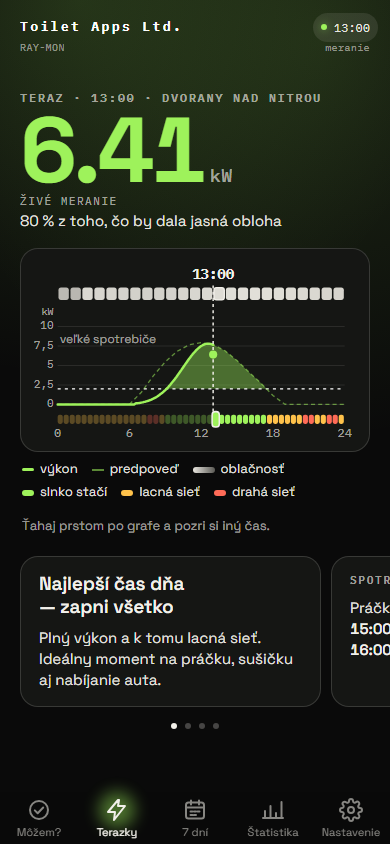
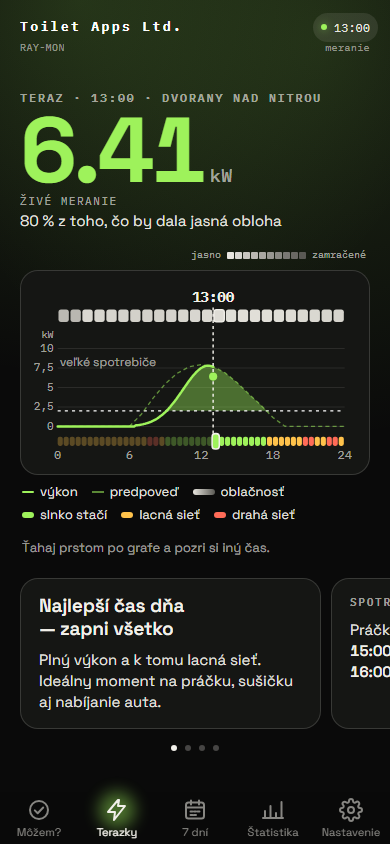
feat: stupnica oblačnosti „jasno … zamračené“ nad grafom dňa v oboch appkách
- karta Terazky / Teraz v oboch appkách: vpravo nad grafom
- detail dňa na karte 7 dní: v súčasnej appke v riadku „Priebeh výroby“
  (kde bola stupnica výroby), v Oblohe vpravo nad grafom
- jedna funkcia cloudScaleHtml vo web/day-chart.js, texty v DAY_CHART_KEYS
- farby oblačnosti ako --cloud-clear / --cloud-dark v :root, bunky, legenda
  aj stupnica ich berú odtiaľ
- preč osamotený komentár k odstráneným farbám časovej osi

diff --git a/test/e2e/obloha.spec.js b/test/e2e/obloha.spec.js
@@ -22,7 +22,7 @@ import { mozemSkyModel } from '../../shared/mozem-sky.js';
 import { cellAt, chartX, DAY_CHART, planCells } from '../../shared/day-chart.js';
 import { dayPlan } from '../../shared/day-plan.js';
 import { heroModel, stavMerania } from '../../shared/hero-model.js';
-import { stavMeraniaText } from '../../shared/messages-core.js';
+import { DAY_CHART_KEYS, stavMeraniaText } from '../../shared/messages-core.js';
 import { terazModel } from '../../shared/teraz.js';
 import { sedemDayModel, sedemModel, sedemWeekModel } from '../../shared/sedem-dni.js';
 import { lookToStored, toUser, typicalSettings } from '../../shared/settings.js';
@@ -1031,6 +1031,9 @@ test.describe('karta Teraz', () => {
     test('nameraná krivka dneška je plná čiara cez predpoveď, hranica veľkých spotrebičov s popiskom a oblačnosť', async ({ page }) => {
         const errors = await openTeraz(page, { time: at('13:00') });
         await expect(page.locator('#tz-chart .dc-cloud')).toHaveCount(24);
+        // Stupnica oblačnosti nad grafom: jasno … zamračené, desať štvorčekov.
+        await expect(page.locator('#tz-cloud-scale span:not(.cs-sw)')).toHaveText([DAY_CHART_KEYS.clear, DAY_CHART_KEYS.cloudy]);
+        await expect(page.locator('#tz-cloud-scale .cs-sw i')).toHaveCount(10);
         await expect(page.locator('#tz-chart .dc-fc')).toHaveCount(1);
         await expect(page.locator('#tz-chart .dc-real')).toHaveCount(1);
         await expect(page.locator('#tz-chart .dc-over')).toHaveCount(1);
@@ -1530,6 +1533,9 @@ test.describe('karta 7 dní', () => {
         await page.locator('#sd-days [data-day="4"]').click();
         await expect.poll(() => denVStranke(page)).toEqual(denZModelu(sedemDayModel(vstupSedem(), 4)));
         await expect(page.locator('#sd-day-chart .dc-now-dot')).toHaveCount(0);
+        // Stupnica oblačnosti nad grafom: jasno … zamračené, desať štvorčekov.
+        await expect(page.locator('#sd-day-cloud-scale span:not(.cs-sw)')).toHaveText([DAY_CHART_KEYS.clear, DAY_CHART_KEYS.cloudy]);
+        await expect(page.locator('#sd-day-cloud-scale .cs-sw i')).toHaveCount(10);
         await expect(page.locator('#sd-day-chart .dc-prev')).toHaveCount(0);
         await expect(page.locator('#sd-day-chart .dc-past')).toHaveCount(0);
         await expect(page.locator('#sd-day-done')).toBeHidden();

diff --git a/style.css b/style.css
@@ -147,9 +147,9 @@
     --amber-rgb: 255, 194, 75;
     --red-rgb: 255, 107, 87;
     --grey-rgb: 185, 182, 172;
-    /* Časová os detailu dňa. Pás spotrebičov je jeden odtieň zelenej v troch stupňoch jasu.
-       Rad prešiel kontrolou farbosleposti a kontrastu voči --card-bg (lightness monotónna,
-       krok >= 0,06, svetlý koniec >= 2:1) - pri zmene ho treba overiť znova. */
+    /* Oblačnosť v grafe dňa: jasno svetlé, zamračené tmavosivé - bunky, legenda aj stupnica. */
+    --cloud-clear: #e8e6df;
+    --cloud-dark: #5a5954;
     /* Tmavé písmo a čiary na plnej farbe (karta Môžem?, plagát súhrnu). Číta ho aj obrázok
        pre story (web/share-image.js), rovnako ako farby vyššie. */
     --ink-on-color: #0b0b0b;
@@ -866,7 +866,7 @@ b {
 /* Oblačnosť po hodinách nad krivkou: jasno svetlé, zamračené tmavosivé (`--c` je oblačnosť v %,
    web/day-chart.js), bunka pod čiarou náhľadu má okraj. */
 .dc-cloud {
-    fill: color-mix(in srgb, #5a5954 var(--c), #e8e6df);
+    fill: color-mix(in srgb, var(--cloud-dark) var(--c), var(--cloud-clear));
 }
 .dc-cloud-on {
     stroke: var(--ink);
@@ -1027,7 +1027,36 @@ b {
 }
 .tz-legend [data-tone='cloud']::before {
     width: 22px;
-    background: linear-gradient(90deg, #e8e6df, #5a5954);
+    background: linear-gradient(90deg, var(--cloud-clear), var(--cloud-dark));
+}
+/* Stupnica oblačnosti nad grafom dňa (cloudScaleHtml vo web/day-chart.js) - na karte Terazky
+   vpravo nad grafom, v detaile dňa 7 dní v riadku „Priebeh výroby“. Bez oblačnosti je prázdna. */
+.cloud-scale {
+    display: flex;
+    justify-content: flex-end;
+    align-items: center;
+    gap: 6px;
+    margin: 0 4px var(--sp-2);
+    font-family: var(--font-mono);
+    font-size: 10px;
+    color: var(--ink-45);
+    white-space: nowrap;
+}
+.chart-top .cloud-scale {
+    margin: 0;
+}
+.cloud-scale:empty {
+    display: none;
+}
+.cs-sw {
+    display: inline-flex;
+    gap: 1px;
+}
+.cs-sw i {
+    width: 7px;
+    height: 7px;
+    border-radius: 1px;
+    background: color-mix(in srgb, var(--cloud-dark) var(--c), var(--cloud-clear));
 }
 .tz-hint {
     display: flex;

diff --git a/obloha/style.css b/obloha/style.css
@@ -51,6 +51,9 @@
     --glass: rgba(8, 16, 40, 0.3);
     --bar: rgba(6, 10, 28, 0.72);
     --dim: rgba(255, 255, 255, 0.82);
+    /* Oblačnosť v grafe dňa: jasno biele, zamračené tmavosivé - bunky, legenda aj stupnica. */
+    --cloud-clear: #fff;
+    --cloud-dark: #4d5560;
     --cheap-text: #b0dbff;
     --costly-text: #ffc4ba;
     /* Plagát na zdieľanie: obloha pri západe slnka a tmavé písmo na nej. Tie isté tokeny číta
@@ -805,7 +808,7 @@ button.live[aria-expanded='true'] {
 /* Oblačnosť po hodinách nad krivkou: jasno svetlé, zamračené tmavosivé (`--c` je oblačnosť v %,
    web/day-chart.js), bunka pod čiarou náhľadu má okraj. */
 .dc-cloud {
-    fill: color-mix(in srgb, #4d5560 var(--c), #fff);
+    fill: color-mix(in srgb, var(--cloud-dark) var(--c), var(--cloud-clear));
 }
 .dc-cloud-on {
     stroke: #fff;
@@ -927,6 +930,31 @@ button.live[aria-expanded='true'] {
 .dc .dc-past {
     fill-opacity: 0.35;
 }
+/* Stupnica oblačnosti vpravo nad grafom dňa (cloudScaleHtml vo web/day-chart.js), text priamo na
+   oblohe je biely. Bez oblačnosti je prázdna. */
+.cloud-scale {
+    display: flex;
+    justify-content: flex-end;
+    align-items: center;
+    gap: 6px;
+    padding: 10px 20px 0;
+    font-size: 0.75rem;
+    color: #fff;
+    white-space: nowrap;
+}
+.cloud-scale:empty {
+    display: none;
+}
+.cs-sw {
+    display: inline-flex;
+    gap: 1px;
+}
+.cs-sw i {
+    width: 8px;
+    height: 8px;
+    border-radius: 2px;
+    background: color-mix(in srgb, var(--cloud-dark) var(--c), var(--cloud-clear));
+}
 .legend {
     display: flex;
     flex-wrap: wrap;
@@ -969,7 +997,7 @@ button.live[aria-expanded='true'] {
 }
 .legend [data-tone='cloud']::before {
     width: 22px;
-    background: linear-gradient(90deg, #fff, #4d5560);
+    background: linear-gradient(90deg, var(--cloud-clear), var(--cloud-dark));
 }
 .hint {
     display: flex;

diff --git a/web/render/sedemdni.js b/web/render/sedemdni.js
@@ -38,7 +38,7 @@ import { SKY_WORDS } from '../../shared/messages-sedem.js';
 import { dayStripModel, dayWeather, mainWindow, sedemDayChart, sunWindows, windowBand } from '../../shared/sedem-dni.js';
 import { localMinutes } from '../../shared/solar.js';
 import { ICON_BACK, ICON_CLOUD, ICON_NEXT, ICON_PARTLY, ICON_SUN } from '../icons.js';
-import { dayChartHtml, legendHtml } from '../day-chart.js';
+import { cloudScaleHtml, dayChartHtml, legendHtml } from '../day-chart.js';
 import { writeHtml } from '../memo.js';
 import { forecastChartSvg, weekBarsSvg, weekHeatSvg } from '../svg.js';
 
@@ -270,6 +270,8 @@ function renderCurve(state, day, progress, detail, dom) {
     // Detail dňa má namiesto krivky graf dňa ako karta Terazky - ten istý ako v detaile dňa novej
     // appky (sedemDayChart). Ktorý z nich vidno, rozhoduje CSS podľa .detail.
     const chart = detail ? sedemDayChart(/** @type {import('../../shared/sedem-dni.js').SedemData} */ (state), state.weekSelDay) : null;
+    // Stupnica oblačnosti patrí ku grafu dňa - v riadku „Priebeh výroby“ nad ním, inde je prázdna.
+    writeHtml(dom.weekCloudScale, chart ? cloudScaleHtml(chart) : '', 'weekCloudScale');
     writeHtml(dom.weekDayChart, chart ? dayChartHtml(chart) : '', 'weekDayChart');
     writeHtml(dom.weekDayLegend, chart ? legendHtml(chart.legend) : '', 'weekDayLegend');
     if (chart) dom.weekDayChart.setAttribute('aria-label', chart.desc);
@@ -406,6 +408,7 @@ function renderEmpty(dom) {
         [dom.weekHeat, 'weekHeat'],
         [dom.weekBars, 'weekBars'],
         [dom.weekCurve, 'weekCurve'],
+        [dom.weekCloudScale, 'weekCloudScale'],
         [dom.weekDayChart, 'weekDayChart'],
         [dom.weekDayLegend, 'weekDayLegend'],
         [dom.weekDayTabs, 'weekDayTabs'],

diff --git a/obloha/web/render/teraz.js b/obloha/web/render/teraz.js
@@ -6,7 +6,7 @@
 import { escapeHtml } from '../../../shared/format.js';
 import { voiceTexts } from '../../../shared/messages-core.js';
 import { terazModel } from '../../../shared/teraz.js';
-import { dayChartHtml, legendHtml } from '../../../web/day-chart.js';
+import { cloudScaleHtml, dayChartHtml, legendHtml } from '../../../web/day-chart.js';
 import { shows } from '../state.js';
 import { setHtml, setText, show } from './write.js';
 
@@ -14,11 +14,12 @@ import { setHtml, setText, show } from './write.js';
 /** @typedef {import('../dom.js').Dom} Dom */
 /** @typedef {ReturnType<typeof voiceTexts>} Texts pevné texty v tóne appky */
 
-/** Graf, legenda pod pásom a nápis s tlačidlom „Späť na teraz“. @param {Model} m @param {Dom} dom @param {Texts['TERAZ_TEXTS']} TERAZ_TEXTS */
+/** Stupnica oblačnosti nad grafom, graf, legenda pod pásom a nápis s tlačidlom „Späť na teraz“. @param {Model} m @param {Dom} dom @param {Texts['TERAZ_TEXTS']} TERAZ_TEXTS */
 function renderChart(m, dom, TERAZ_TEXTS) {
     show(dom.tzPlot, !!m.chart);
     if (!m.chart) return;
     const c = m.chart;
+    setHtml(dom.tzCloudScale, cloudScaleHtml(c));
     setHtml(dom.tzChart, dayChartHtml(c));
     dom.tzChart.setAttribute('aria-label', TERAZ_TEXTS.slider);
     dom.tzChart.setAttribute('aria-valuenow', String(c.value));

diff --git a/web/render/terazky.js b/web/render/terazky.js
@@ -7,7 +7,7 @@ import { escapeHtml, minutesToTimeStr } from '../../shared/format.js';
 import { voiceTexts } from '../../shared/messages-core.js';
 import { localMinutes } from '../../shared/solar.js';
 import { terazModel } from '../../shared/teraz.js';
-import { dayChartHtml, legendHtml } from '../day-chart.js';
+import { cloudScaleHtml, dayChartHtml, legendHtml } from '../day-chart.js';
 import { writeHtml } from '../memo.js';
 
 /** @typedef {import('../../shared/teraz.js').TerazModel} Model */
@@ -48,11 +48,12 @@ function renderHead(state, m, dom) {
     dom.tzRetry.textContent = TERAZ_TEXTS.retry;
 }
 
-/** Graf, legenda pod pásom a nápis s tlačidlom „Späť na teraz“. @param {Model} m @param {Dom} dom */
+/** Stupnica oblačnosti nad grafom, graf, legenda pod pásom a nápis s tlačidlom „Späť na teraz“. @param {Model} m @param {Dom} dom */
 function renderChart(m, dom) {
     show(dom.tzPlot, !!m.chart);
     if (!m.chart) return;
     const c = m.chart;
+    writeHtml(dom.tzCloudScale, cloudScaleHtml(c), 'tz-cloud-scale');
     writeHtml(dom.tzChart, dayChartHtml(c), 'tz-chart');
     dom.tzChart.setAttribute('aria-label', TERAZ_TEXTS.slider);
     dom.tzChart.setAttribute('aria-valuenow', String(c.value));

diff --git a/web/day-chart.js b/web/day-chart.js
@@ -5,6 +5,7 @@
 
 import { escapeHtml } from '../shared/format.js';
 import { DAY_CHART } from '../shared/day-chart.js';
+import { DAY_CHART_KEYS } from '../shared/messages-core.js';
 
 /** @typedef {ReturnType<typeof import('../shared/day-chart.js').dayChartModel>} Chart */
 
@@ -109,6 +110,20 @@ export function dayChartHtml(c) {
         labelsHtml(c) +
         '</div>'
     );
+}
+
+/** Počet štvorčekov stupnice oblačnosti. */
+const CLOUD_STEPS = 10;
+
+/**
+ * Stupnica oblačnosti nad grafom: „jasno … zamračené“ (štvorčeky) v tých istých farbách ako bunky riadku
+ * oblačnosti (`--c` ako pri bunke). Bez oblačnosti v grafe je prázdna a style.css ju skryje.
+ * @param {Chart} c
+ */
+export function cloudScaleHtml(c) {
+    if (!c.clouds.length) return '';
+    const sw = Array.from({ length: CLOUD_STEPS }, (_, i) => `<i style="--c:${cloudPct((i / (CLOUD_STEPS - 1)) * 100)}"></i>`).join('');
+    return `<span>${escapeHtml(DAY_CHART_KEYS.clear)}</span><span class="cs-sw">${sw}</span><span>${escapeHtml(DAY_CHART_KEYS.cloudy)}</span>`;
 }
 
 /** Legenda pod pásom plánu: farba a slovo. @param {Array<{ tone: string, text: string }>} legend */

diff --git a/index.html b/index.html
@@ -157,6 +157,7 @@
                     <button type="button" id="tz-retry" class="tz-retry hidden"></button>
                 </div>
                 <div id="tz-plot" class="tz-plot hidden">
+                    <p id="tz-cloud-scale" class="cloud-scale" aria-hidden="true"></p>
                     <div
                         id="tz-chart"
                         class="tz-chart day-scrub"
@@ -288,7 +289,8 @@
                             <!-- Okno na veľké spotrebiče: len v detaile dňa na mobile (renderDayWindow). -->
                             <div class="day-window hidden" id="week-day-window"></div>
                             <div class="chart-top">
-                                <span class="lbl">Priebeh výroby</span>
+                                <span class="lbl">Priebeh výroby</span
+                                ><span id="week-cloud-scale" class="cloud-scale" aria-hidden="true"></span>
                             </div>
                             <div class="utabs" id="week-day-tabs" role="tablist"></div>
                             <div class="stat-line curve-stat" id="week-curve-stat"></div>

diff --git a/obloha/web/render/sedem.js b/obloha/web/render/sedem.js
@@ -6,7 +6,7 @@
 import { escapeHtml, weekDayPosition } from '../../../shared/format.js';
 import { voiceTexts } from '../../../shared/messages.js';
 import { dayStripModel, sedemDayModel, sedemModel, sedemWeekModel, WEEK_BARS, WEEK_HEAT } from '../../../shared/sedem-dni.js';
-import { dayChartHtml, legendHtml } from '../../../web/day-chart.js';
+import { cloudScaleHtml, dayChartHtml, legendHtml } from '../../../web/day-chart.js';
 import { weatherIcon } from './icons.js';
 import { dashboard, shows } from '../state.js';
 import { setHtml, setText, show } from './write.js';
@@ -96,6 +96,7 @@ function renderDay(data, index, dom, voice) {
     setText(dom.sdDaySub, d.sub);
     dom.sdDayNums.classList.toggle('est', data.known === 'poloha');
     setHtml(dom.sdDayNums, numsHtml(d.nums));
+    setHtml(dom.sdDayCloudScale, cloudScaleHtml(d.chart));
     setHtml(dom.sdDayChart, dayChartHtml(d.chart));
     dom.sdDayChart.setAttribute('aria-label', d.chart.desc);
     setHtml(dom.sdDayLegend, legendHtml(d.chart.legend));

diff --git a/obloha/index.html b/obloha/index.html
@@ -128,6 +128,7 @@
                     <button type="button" id="tz-ask-btn" class="pbtn"></button>
                 </div>
                 <div id="tz-plot">
+                    <p id="tz-cloud-scale" class="cloud-scale" aria-hidden="true"></p>
                     <div
                         id="tz-chart"
                         class="glass day-scrub"
@@ -209,6 +210,7 @@
                             <h2 class="ttl dttl"><span id="sd-day-title"></span><span id="sd-day-icon"></span></h2>
                             <p id="sd-day-sub" class="sub"></p>
                             <div id="sd-day-nums" class="nums"></div>
+                            <p id="sd-day-cloud-scale" class="cloud-scale" aria-hidden="true"></p>
                             <div id="sd-day-chart" class="glass dchart" role="img"></div>
                             <p id="sd-day-legend" class="legend"></p>
                             <div id="sd-day-facts" class="glass facts">

diff --git a/web/dom.js b/web/dom.js
@@ -66,6 +66,7 @@ function terazkyDom() {
         tzNoteBtn: byId('tz-note-btn'),
         tzRetry: byId('tz-retry'),
         tzPlot: byId('tz-plot'),
+        tzCloudScale: byId('tz-cloud-scale'),
         tzChart: byId('tz-chart'),
         tzChartDesc: byId('tz-chart-desc'),
         tzLegend: byId('tz-legend'),
@@ -141,6 +142,7 @@ function sedemdniDom() {
         weekDayWindow: byId('week-day-window'),
         weekCurveLiveLegend: byId('week-curve-live-legend'),
         weekCurveStat: byId('week-curve-stat'),
+        weekCloudScale: byId('week-cloud-scale'),
         weekDayChart: byId('week-day-chart'),
         weekDayLegend: byId('week-day-legend'),
         weekCurveWrap: byId('week-curve-wrap'),
